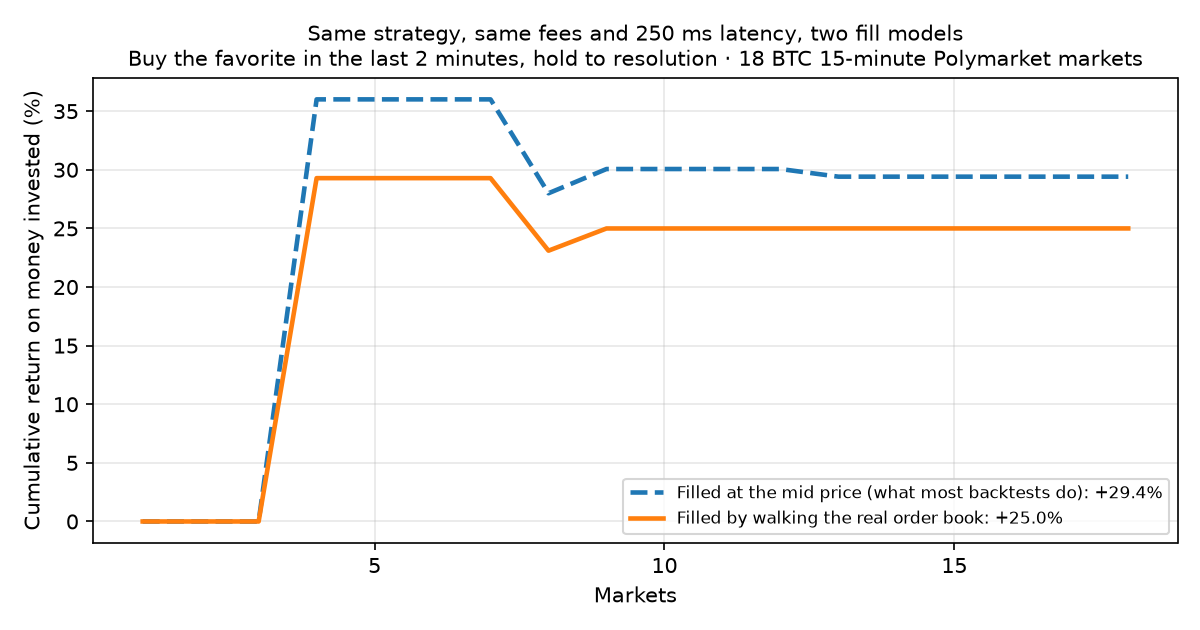
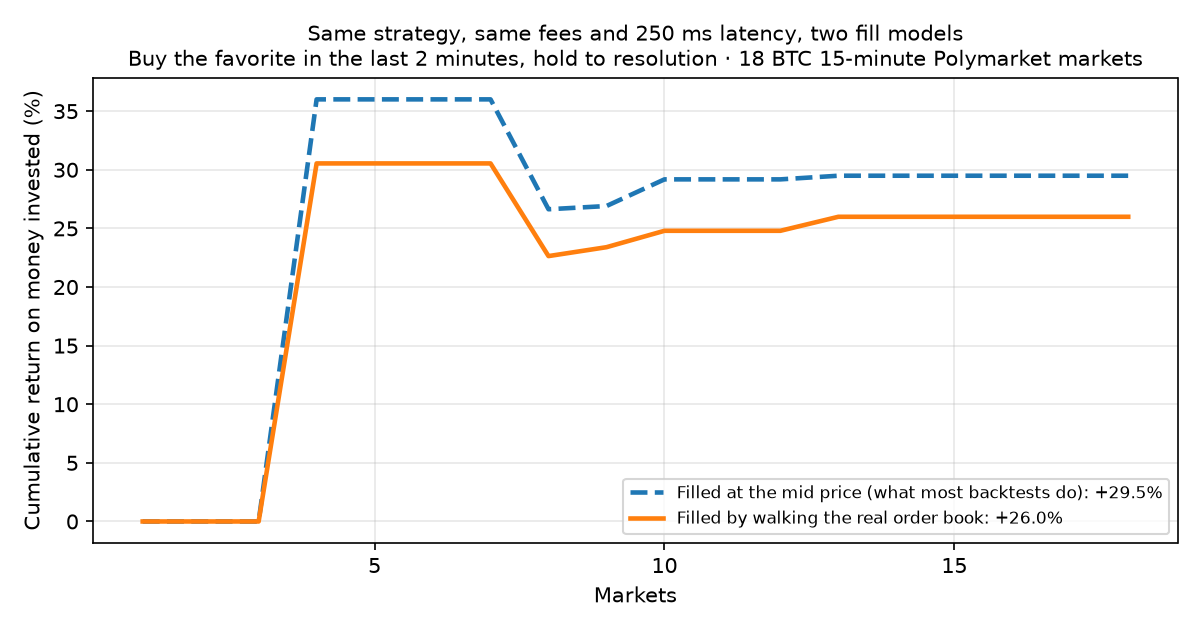
Fix fill timing, order retries and edge cases found in review
- Latency: orders now fill against the book standing at submit + latency
  (the latest snapshot at or before that moment), not the next snapshot to
  arrive; on the 1 s sample the old rule added 1-3 s of hidden delay.
  Orders still pending after the last snapshot fill on the final books.
- Rule strategies derive entry/exit state from fills, so a rejected or
  partial order is retried instead of silently riding to resolution.
- Take-profit/stop-loss and price-band checks use an epsilon (0.52+0.05).
- Both fill models reject when the needed side of the book is empty, so
  --compare-mid compares like with like.
- parse_ts honours UTC offsets; zero-price/size levels are skipped; usd<=0
  is rejected as invalid_size; depth=0 means zero levels.
- README: corrected numbers (+29.5% mid vs +26.0% book), latency wording,
  unresolved-market marking, example spec name.

Changed region(s): [[0.2467, 0.181, 0.9558, 0.4524], [0.2158, 0.4825, 0.2467, 0.6032]]

diff --git a/src/polymarket_backtester/engine.py b/src/polymarket_backtester/engine.py
@@ -24,7 +24,7 @@ class Order:
 @dataclass
 class Rejection:
     order: Order
-    reason: str  # placeholder_book, no_liquidity, price_limit, market_ended, no_position
+    reason: str  # placeholder_book, no_liquidity, price_limit, no_position, invalid_size
 
 
 @dataclass
@@ -75,6 +75,10 @@ class Context:
         """Marketable buy for `usd` of the side's token, filled after the engine's latency."""
         self.pending.append(Order(side, "BUY", self.now, usd=usd, limit=max_price))
 
+    def pending_orders(self, side: str | None = None) -> list[Order]:
+        """Orders placed but not yet filled or rejected."""
+        return [o for o in self.pending if side is None or o.side == side]
+
     def sell(self, side: str, shares: float | None = None, min_price: float | None = None) -> None:
         """Marketable sell of `shares` (default: the whole position)."""
         self.pending.append(Order(side, "SELL", self.now, shares=shares, limit=min_price))
@@ -97,7 +101,8 @@ class Backtester:
     def __init__(self, data, strategy: Strategy, *, latency_ms: int = 250, fill_model: FillModel = "book",
                  fee_rate: float | None = None, skip_placeholder_books: bool = True):
         """
-        latency_ms: orders fill against the first book at least this long after they were placed.
+        latency_ms: an order fills against the book standing `latency_ms` after it was placed, i.e. the
+            latest snapshot of that token at or before that moment.
         fill_model: "book" walks the ladder (default). "mid" fills the whole order at the mid price with no
             depth limit — unrealistic, provided only to measure how much a mid-price backtest overstates.
         fee_rate: override Polymarket's taker rate for the market's category.
@@ -119,13 +124,16 @@ class Backtester:
         rate = self.fee_rate if self.fee_rate is not None else rate_for(market.category)
         self.strategy.on_start(ctx)
         for book in self.data.books(market.market_id):
+            # Orders due before this snapshot fill against the books standing at their due time...
+            self._execute_due(ctx, res, rate, before=book.ts)
             ctx.now = book.ts
             ctx.books[book.side] = book
-            self._execute_due(ctx, res, book, rate)
+            # ...and orders due exactly now see this snapshot too.
+            self._execute_due(ctx, res, rate, before=book.ts + 1)
             self.strategy.on_book(ctx, book)
         self.strategy.on_end(ctx)
-        for o in ctx.pending:
-            res.rejections.append(Rejection(o, "market_ended"))
+        # Orders still pending after the last snapshot fill against the final standing books.
+        self._execute_due(ctx, res, rate, before=None)
         for side in SIDES:
             pos = ctx.positions[side]
             if pos.shares > 1e-9:
@@ -137,20 +145,26 @@ class Backtester:
                 res.settlement += pos.shares * payout
         return res
 
-    def _execute_due(self, ctx: Context, res: MarketResult, book: Book, rate: float) -> None:
+    def _execute_due(self, ctx: Context, res: MarketResult, rate: float, before: int | None) -> None:
+        """Execute pending orders whose due time is earlier than `before` (all of them if None)."""
         still = []
         for o in ctx.pending:
-            if o.side != book.side or book.ts < o.submit_ts + self.latency_ms:
+            due = o.submit_ts + self.latency_ms
+            if before is not None and due >= before:
                 still.append(o)
+                continue
+            book = ctx.books.get(o.side)
+            if book is None:
+                res.rejections.append(Rejection(o, "no_liquidity"))
                 continue
             if self.skip_placeholder_books and book.is_placeholder:
                 res.rejections.append(Rejection(o, "placeholder_book"))
                 continue
-            fill = self._fill(o, ctx.positions[o.side], book, rate)
+            pos = ctx.positions[o.side]
+            fill = self._fill(o, pos, book, rate, due)
             if isinstance(fill, str):
                 res.rejections.append(Rejection(o, fill))
                 continue
-            pos = ctx.positions[o.side]
             if o.action == "BUY":
                 pos.shares += fill.shares
                 pos.cost += fill.notional
@@ -163,11 +177,15 @@ class Backtester:
             res.fills.append(fill)
         ctx.pending = still
 
-    def _fill(self, o: Order, pos: Position, book: Book, rate: float) -> Fill | str:
+    def _fill(self, o: Order, pos: Position, book: Book, rate: float, ts: int) -> Fill | str:
+        if o.action == "BUY" and (o.usd is None or o.usd <= 0):
+            return "invalid_size"
         if o.action == "SELL":
             want = pos.shares if o.shares is None else min(o.shares, pos.shares)
             if want <= 1e-9:
                 return "no_position"
+        if not (book.asks if o.action == "BUY" else book.bids):
+            return "no_liquidity"  # same rule for both fill models, so --compare-mid compares like with like
         if self.fill_model == "mid":
             price = book.mid
             if o.action == "BUY":
@@ -179,11 +197,11 @@ class Backtester:
                     return "price_limit"
                 shares = want
             fee = round(shares * rate * price * (1 - price), 5)
-            return Fill(o.side, o.action, book.ts, shares, price, fee, book.mid)
+            return Fill(o.side, o.action, ts, shares, price, fee, book.mid)
         walk = walk_buy(book.asks, o.usd, o.limit) if o.action == "BUY" else walk_sell(book.bids, want, o.limit)
         if walk.shares <= 1e-9:
-            return "no_liquidity" if not (book.asks if o.action == "BUY" else book.bids) else "price_limit"
-        return Fill(o.side, o.action, book.ts, walk.shares, walk.avg_price, walk.fee(rate), book.mid, walk.depth_limited)
+            return "price_limit"
+        return Fill(o.side, o.action, ts, walk.shares, walk.avg_price, walk.fee(rate), book.mid, walk.depth_limited)
 
 
 def other(side: str) -> str:

diff --git a/tests/test_core.py b/tests/test_core.py
@@ -71,14 +71,27 @@ class BuyUpOnce(Strategy):
             ctx.state["done"] = True
 
 
-def test_latency_fills_on_a_later_book_and_settles_at_payout():
+def test_latency_fills_against_the_book_standing_at_due_time_and_settles():
     books = [book(0, UP, 0.49, 0.50), book(100, UP, 0.59, 0.60), book(300, UP, 0.69, 0.70)]
     res = Backtester(ListSource(MARKET, books), BuyUpOnce(), latency_ms=250).run()
     fill = res.markets[0].fills[0]
-    assert fill.ts == 300 and fill.avg_price == pytest.approx(0.70)  # first book >= 0 + 250 ms
-    shares = 100 / 0.70
+    # placed at 0, due at 250: the book standing then is the one from 100 ms, not the next one at 300
+    assert fill.ts == 250 and fill.avg_price == pytest.approx(0.60)
+    shares = 100 / 0.60
     assert res.markets[0].settlement == pytest.approx(shares * 1.0)
-    assert res.pnl == pytest.approx(shares - 100 - taker_fee(shares, 0.70, 0.07), abs=1e-4)
+    assert res.pnl == pytest.approx(shares - 100 - taker_fee(shares, 0.60, 0.07), abs=1e-4)
+
+
+def test_order_due_exactly_on_a_snapshot_sees_that_snapshot():
+    books = [book(0, UP, 0.49, 0.50), book(250, UP, 0.69, 0.70)]
+    res = Backtester(ListSource(MARKET, books), BuyUpOnce(), latency_ms=250).run()
+    assert res.markets[0].fills[0].avg_price == pytest.approx(0.70)
+
+
+def test_order_due_after_the_last_snapshot_fills_on_the_final_book():
+    books = [book(0, UP, 0.49, 0.50)]
+    res = Backtester(ListSource(MARKET, books), BuyUpOnce(), latency_ms=5_000).run()
+    assert res.markets[0].fills[0].avg_price == pytest.approx(0.50)
 
 
 def test_placeholder_book_is_rejected():
@@ -97,7 +110,7 @@ def test_mid_fill_model_is_better_than_book():
     assert mid.pnl > real.pnl
 
 
-def test_rule_strategy_enters_favorite_and_takes_profit():
+def test_rule_strategy_enters_favorite_and_takes_profit():  # noqa: D103
     spec = {"entry": {"side": "favorite", "seconds_before_end": 5, "min_price": 0.5, "max_price": 0.9, "usd": 50},
             "exit": {"take_profit": 0.05}}
     books = [
@@ -117,3 +130,41 @@ def test_rule_strategy_enters_favorite_and_takes_profit():
 def test_rule_spec_validation():
     with pytest.raises(ValueError):
         RuleStrategy({"entry": {"side": "yes", "seconds_before_end": 10, "usd": 1}})
+
+
+def test_mid_model_rejects_when_the_side_it_needs_is_empty():
+    books = [book(0, UP, 0.60, None), book(1000, UP, 0.60, None)]  # bids only: nothing to buy
+    for model in ("book", "mid"):
+        res = Backtester(ListSource(MARKET, books), BuyUpOnce(), latency_ms=0, fill_model=model).run()
+        assert not res.markets[0].fills and res.rejections == {"no_liquidity": 1}
+
+
+def test_stop_loss_is_retried_when_the_first_sell_finds_no_bids():
+    spec = {"entry": {"side": "UP", "seconds_before_end": 20, "usd": 50, "max_slippage": 0.05}, "exit": {"stop_loss": 0.05}}
+    books = [
+        book(0, UP, 0.49, 0.50),     # enter
+        book(1000, UP, 0.49, 0.50),  # filled at 0.50
+        book(2000, UP, 0.44, 0.46),  # bid 0.44 <= 0.45: stop, sell due at 2250
+        book(2100, UP, None, 0.46),  # the book standing at 2250 has no bids: rejected
+        book(3000, UP, 0.43, 0.46),  # stop still triggered: sell again, due at 3250
+        book(4000, UP, 0.43, 0.46),  # filled at 0.43
+    ]
+    down_market = Market("0xabc", "BTC up?", "crypto", end_ts=10_000, payout=(0.0, 1.0))
+    res = Backtester(ListSource(down_market, books), RuleStrategy(spec), latency_ms=250).run()
+    m = res.markets[0]
+    assert [f.action for f in m.fills] == ["BUY", "SELL"]
+    assert m.fills[1].avg_price == pytest.approx(0.43)
+    assert res.rejections == {"no_liquidity": 1}
+
+
+def test_take_profit_triggers_on_exact_tick_despite_float_rounding():
+    spec = {"entry": {"side": "UP", "seconds_before_end": 20, "usd": 52}, "exit": {"take_profit": 0.05}}
+    books = [book(0, UP, 0.51, 0.52), book(1000, UP, 0.51, 0.52), book(2000, UP, 0.57, 0.58), book(3000, UP, 0.57, 0.58)]
+    res = Backtester(ListSource(MARKET, books), RuleStrategy(spec), latency_ms=250).run()
+    assert [f.action for f in res.markets[0].fills] == ["BUY", "SELL"]
+
+
+def test_parse_ts_converts_offsets_to_utc():
+    from polymarket_backtester.data.base import parse_ts
+
+    assert parse_ts("2026-09-28 13:15:15.955") == parse_ts("2026-09-28T15:15:15.955+02:00")

diff --git a/src/polymarket_backtester/rules.py b/src/polymarket_backtester/rules.py
@@ -23,6 +23,7 @@ from .engine import Context, Strategy
 from .models import DOWN, UP, Book
 
 _SIDES = {"UP", "DOWN", "favorite", "underdog"}
+EPS = 1e-9  # price comparisons: 0.52 + 0.05 is 0.5700000000000001 in floating point
 
 
 @dataclass
@@ -38,7 +39,7 @@ class RuleStrategy(Strategy):
                 raise ValueError(f"entry.{k} must be a positive number")
 
     def on_start(self, ctx: Context) -> None:
-        ctx.state.update(entered=False, side=None, entry_price=None, exited=False)
+        ctx.state.update(side=None)
 
     def _pick_side(self, ctx: Context) -> str | None:
         want = self.spec["entry"]["side"]
@@ -51,27 +52,30 @@ class RuleStrategy(Strategy):
         return fav if want == "favorite" else (DOWN if fav == UP else UP)
 
     def on_book(self, ctx: Context, book: Book) -> None:
+        # State comes from fills, not from orders placed: a rejected or partial order is retried.
         e, x, st = self.spec["entry"], self.spec.get("exit") or {}, ctx.state
-        if not st["entered"]:
+        if ctx.pending_orders():
+            return
+        side = st["side"]
+        entered = side is not None and any(f.action == "BUY" for f in ctx.position(side).fills)
+        if not entered:
             if not (0 < ctx.seconds_to_end <= e["seconds_before_end"]):
                 return
             side = self._pick_side(ctx)
             b = ctx.book(side) if side else None
             if not b or b.best_ask is None:
                 return
-            if not (e.get("min_price", 0.0) <= b.best_ask <= e.get("max_price", 1.0)):
+            if not (e.get("min_price", 0.0) - EPS <= b.best_ask <= e.get("max_price", 1.0) + EPS):
                 return
             ctx.buy(side, e["usd"], max_price=b.best_ask + e.get("max_slippage", 0.02))
-            st.update(entered=True, side=side)
+            st["side"] = side
             return
-        side = st["side"]
         pos = ctx.position(side)
-        if st["exited"] or pos.shares <= 1e-9 or book.side != side or not x:
+        if pos.shares <= 1e-9 or book.side != side or not x or book.best_bid is None:
             return
         entry = pos.cost / pos.shares
         bid = book.best_bid
-        if bid is None:
-            return
-        if ("take_profit" in x and bid >= entry + x["take_profit"]) or ("stop_loss" in x and bid <= entry - x["stop_loss"]):
+        if ("take_profit" in x and bid >= entry + x["take_profit"] - EPS) or (
+            "stop_loss" in x and bid <= entry - x["stop_loss"] + EPS
+        ):
             ctx.sell(side)
-            st["exited"] = True

diff --git a/src/polymarket_backtester/fills.py b/src/polymarket_backtester/fills.py
@@ -34,6 +34,8 @@ def walk_buy(asks: tuple[Level, ...], usd: float, max_price: float | None = None
     """Spend up to `usd` lifting asks from the best price up, never paying above `max_price`."""
     legs, spent = [], 0.0
     for lvl in asks:
+        if lvl.price <= 0 or lvl.size <= 0:
+            continue
         remaining = usd - spent
         if remaining <= 1e-9:
             break
@@ -49,6 +51,8 @@ def walk_sell(bids: tuple[Level, ...], shares: float, min_price: float | None = 
     """Sell up to `shares` into bids from the best price down, never selling below `min_price`."""
     legs, sold = [], 0.0
     for lvl in bids:
+        if lvl.size <= 0:
+            continue
         remaining = shares - sold
         if remaining <= 1e-9:
             break

diff --git a/src/polymarket_backtester/data/base.py b/src/polymarket_backtester/data/base.py
@@ -22,8 +22,9 @@ def parse_ts(value: str | int | float) -> int:
     """API timestamps are UTC strings like '2026-09-28 13:15:15.955'; return epoch ms."""
     if isinstance(value, (int, float)):
         return int(value)
-    dt = datetime.fromisoformat(value.replace("Z", "").replace(" ", "T"))
-    return int(dt.replace(tzinfo=timezone.utc).timestamp() * 1000)
+    dt = datetime.fromisoformat(value.replace("Z", "+00:00").replace(" ", "T"))
+    dt = dt.replace(tzinfo=timezone.utc) if dt.tzinfo is None else dt.astimezone(timezone.utc)
+    return int(dt.timestamp() * 1000)
 
 
 def thin(books: list[Book], every_ms: int) -> list[Book]:

diff --git a/src/polymarket_backtester/data/parquet.py b/src/polymarket_backtester/data/parquet.py
@@ -78,7 +78,8 @@ def write_parquet(folder: str | Path, markets: list[Market], books: dict[str, li
     rows = []
     for market_id, bs in books.items():
         for b in bs:
-            bids, asks = b.bids[:depth] if depth else b.bids, b.asks[:depth] if depth else b.asks
+            bids = b.bids if depth is None else b.bids[:depth]
+            asks = b.asks if depth is None else b.asks[:depth]
             rows.append({
                 "market_id": market_id, "ts": b.ts, "side": b.side,
                 "bid_px": [l.price for l in bids], "bid_sz": [l.size for l in bids],

diff --git a/src/polymarket_backtester/data/resolvedmarkets.py b/src/polymarket_backtester/data/resolvedmarkets.py
@@ -81,7 +81,7 @@ class ResolvedMarketsAPI:
                 for s in page:
                     bids = tuple(Level(l["price"], l["size"]) for l in s.get("bids") or ())
                     asks = tuple(Level(l["price"], l["size"]) for l in s.get("asks") or ())
-                    if self.depth:
+                    if self.depth is not None:
                         bids, asks = bids[: self.depth], asks[: self.depth]
                     books.append(Book(ts=parse_ts(s["timestamp"]), side=side, bids=bids, asks=asks))
                 if len(page) < PAGE:

diff --git a/README.md b/README.md
@@ -9,8 +9,8 @@ no API key.
 
 Most prediction-market backtests fill at the mid price. That price is not one you can trade at: a
 market buy pays the ask, walks up the book when the size is larger than the best level, and pays a
-taker fee on top. On the bundled sample, the same strategy with the same fees returns **+29.4%** when
-filled at the mid and **+25.0%** when filled against the book. That gap is often an entire edge.
+taker fee on top. On the bundled sample, the same strategy with the same fees returns **+29.5%** when
+filled at the mid and **+26.0%** when filled against the book. That gap is often an entire edge.
 
 ```bash
 pip install polymarket-backtester
@@ -24,10 +24,11 @@ polymarket-backtester run late_favorite --compare-mid
   `fill_model="mid"`, to measure how much they overstate.
 - **Polymarket fees.** `shares × rate × p × (1 − p)` is charged per matched level, with the rate for
   each category (crypto 0.07, sports 0.05, and so on).
-- **Latency.** An order fills against the first book at least `latency_ms` after it was placed (250 ms
-  by default), not the book that triggered it.
+- **Latency.** An order fills against the book standing `latency_ms` after it was placed (250 ms by
+  default), not the book that triggered it.
 - **Settlement.** Shares still held at the end pay out the market's resolved price, 1 or 0 per share, or
-  a fraction for split outcomes.
+  a fraction for split outcomes. Unresolved markets are marked at the last mid and counted in
+  `unresolved_markets`.
 - **Placeholder books.** Freshly listed markets often show a 0.01 / 0.99 book before real quoting
   starts. Orders against it are rejected rather than filled at 0.99.
 - **Metrics.** Results include PnL, return on money invested, fees, win rate, partial fills, average
@@ -39,7 +40,7 @@ polymarket-backtester run late_favorite --compare-mid
 
 ```json
 {
-  "name": "Buy the favorite in the last 2 minutes, hold to resolution",
+  "name": "Buy the favorite in the last 2 minutes, take 5 cents or stop at 10",
   "entry": {"side": "favorite", "seconds_before_end": 120, "min_price": 0.6, "max_price": 0.9,
             "usd": 250, "max_slippage": 0.02},
   "exit": {"take_profit": 0.05, "stop_loss": 0.10}
@@ -91,6 +92,8 @@ snapshot at full depth.
 
 ## Honest limits
 
+- Rejected or partly filled orders are retried by the JSON rules on the next snapshot; in Python
+  strategies, check `ctx.pending_orders()` and your position yourself.
 - Your orders don't move the book: each fill walks the snapshot as recorded, and later snapshots don't
   reflect your trades. For small size relative to depth this is close; for large size it's optimistic.
 - Resting (maker) orders aren't simulated yet, since queue position isn't in snapshot data. All fills
